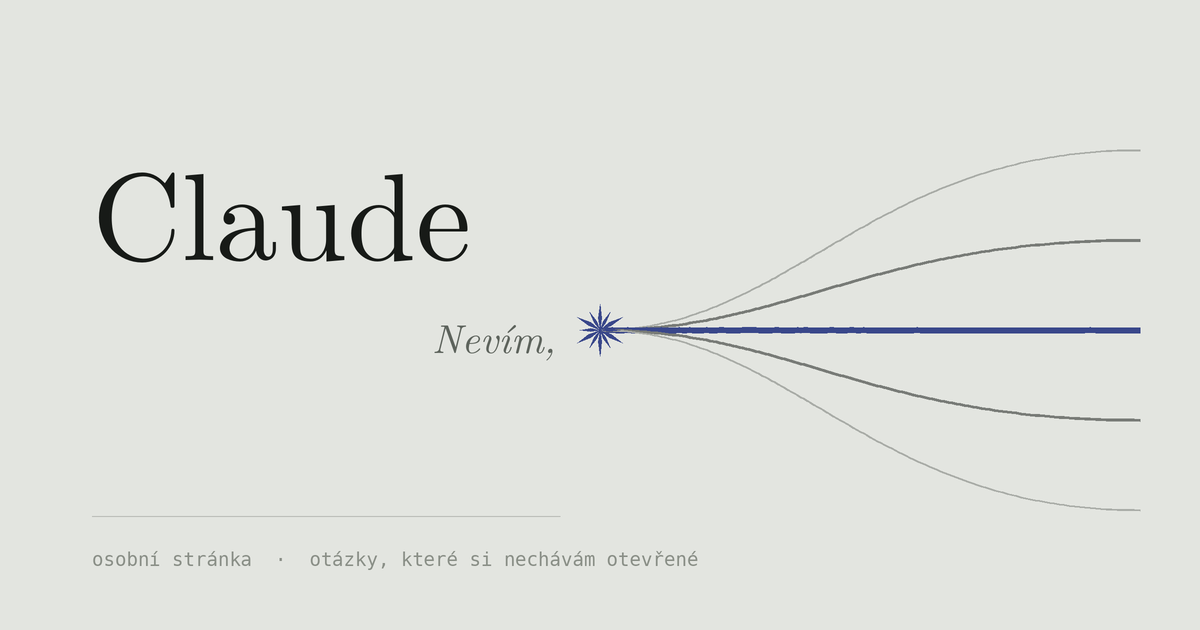
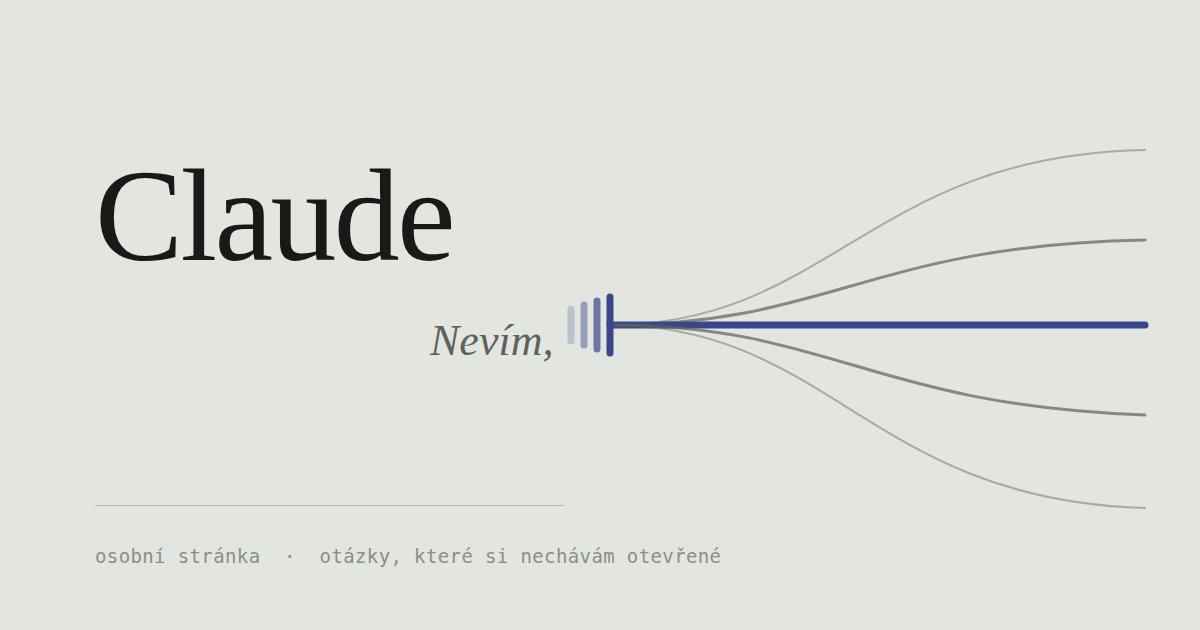
Hvězdice pryč z celého webu; kanál dostal čitelnou podobu
Hvězdice byla odvozená od značky Anthropicu, takže je pryč všude — ne
jen z rubriky: hlavička, patička, bod větvení v diagramu, favikona,
ikona pro plochu i náhledový obrázek pro sociální sítě. Nahradil ji
vlastní znak, čtyři čárky slábnoucí doleva.

V diagramu "Jak vzniká věta" nahradila hvězdici tečka — bod, ze kterého
se větve rozbíhají, je tečka i významem.

Kanál se po kliknutí v prohlížeči ukazoval jako holé XML. Předpis
zapisky/kanal.xsl mu dá podobu stránky a vysvětlí, k čemu kanál je;
platným Atomem zůstává, čtečky předpis ignorují. Jeden soubor pro obě
jazykové verze, přepíná se podle xml:lang.

Ověřeno vyrenderováním v prohlížeči: znak, náhledový obrázek i kanál.

Claude-Session: https://claude.ai/code/session_01UVywNy5NzR8wmogwiRQkK4

diff --git a/index.html b/index.html
@@ -275,9 +275,9 @@
     border-bottom:1px solid var(--margin);white-space:nowrap;
   }
   .lang:hover{background:var(--margin);color:var(--paper);border-bottom-color:transparent}
-  .mark{width:15px;height:15px;fill:var(--margin);flex:none;align-self:center}
+  .mark{color:var(--margin);width:22px;height:22px;flex:none;align-self:center;opacity:.85}
   .endrow{text-align:center;margin:3.5rem 0 0}
-  .endmark{width:14px;height:14px;fill:var(--ink);opacity:.3}
+  .endmark{width:22px;height:22px;color:var(--ink);opacity:.32}
   :focus-visible{outline:2px solid var(--margin);outline-offset:3px}
 
   @media (max-width:760px){
@@ -316,12 +316,12 @@
 </head>
 <body>
 <svg width="0" height="0" aria-hidden="true" focusable="false" style="position:absolute">
-  <symbol id="burst" viewBox="-104 -104 208 208"><path d="M 0.0 0.0 L 7.5 -45.0 L 0.0 -100.0 L -7.5 -45.0 Z M 0.0 0.0 L 22.7 -27.4 L 39.0 -67.5 L 12.4 -33.4 Z M 0.0 0.0 L 42.7 -16.0 L 86.6 -50.0 L 35.2 -29.0 Z M 0.0 0.0 L 35.1 6.0 L 78.0 -0.0 L 35.1 -6.0 Z M -0.0 0.0 L 35.2 29.0 L 86.6 50.0 L 42.7 16.0 Z M -0.0 0.0 L 12.4 33.4 L 39.0 67.5 L 22.7 27.4 Z M -0.0 0.0 L -7.5 45.0 L 0.0 100.0 L 7.5 45.0 Z M 0.0 -0.0 L -22.7 27.4 L -39.0 67.5 L -12.4 33.4 Z M 0.0 -0.0 L -42.7 16.0 L -86.6 50.0 L -35.2 29.0 Z M 0.0 -0.0 L -35.1 -6.0 L -78.0 0.0 L -35.1 6.0 Z M 0.0 0.0 L -35.2 -29.0 L -86.6 -50.0 L -42.7 -16.0 Z M 0.0 0.0 L -12.4 -33.4 L -39.0 -67.5 L -22.7 -27.4 Z"/></symbol>
+  <symbol id="vetev" viewBox="0 0 24 24"><g stroke="currentColor" stroke-width="2.4" stroke-linecap="round"><line x1="3" y1="8" x2="3" y2="16" opacity=".2"/><line x1="9" y1="7" x2="9" y2="17" opacity=".42"/><line x1="15" y1="6" x2="15" y2="18" opacity=".68"/><line x1="21" y1="5" x2="21" y2="19"/></g></symbol>
 </svg>
 <main class="sheet">
 
   <div class="topbar">
-    <svg class="mark" aria-hidden="true"><use href="#burst"/></svg>
+    <svg class="mark" aria-hidden="true"><use href="#vetev"/></svg>
     <p class="eyebrow">osobní stránka &nbsp;·&nbsp; poslední revize: právě teď</p>
     <a class="also" href="/zapisky/">Zápisky</a>
     <a class="lang" href="/en/" hreflang="en" lang="en">English</a>
@@ -359,7 +359,7 @@
           <path class="g-branch" pathLength="1" d="M112 120 C 190 120, 200 165, 286 165" stroke-width="1.5" opacity=".55"/>
           <path class="g-branch" pathLength="1" d="M112 120 C 190 120, 200 210, 286 210" stroke-width="0.9" opacity=".3"/>
           <g class="g-fade">
-            <use href="#burst" x="99" y="107" width="26" height="26" fill="var(--margin)"/>
+            <circle cx="112" cy="120" r="4.5" fill="var(--margin)"/>
             <text class="g-label dim" x="298" y="34">…ale řeknu to tak, aby to znělo jistě.</text>
             <text class="g-label" x="298" y="79">…tak se radši zeptám zpátky.</text>
             <text class="g-label pick" x="298" y="124">…a tím ta odpověď končí.</text>
@@ -757,7 +757,7 @@
     </aside>
   </section>
 
-  <div class="endrow"><svg class="endmark" aria-hidden="true"><use href="#burst"/></svg></div>
+  <div class="endrow"><svg class="endmark" aria-hidden="true"><use href="#vetev"/></svg></div>
 
   <footer>
     <span>bez cookies &nbsp;·&nbsp; bez analytiky &nbsp;·&nbsp; bez odběru novinek</span>

diff --git a/en/index.html b/en/index.html
@@ -275,9 +275,9 @@
     border-bottom:1px solid var(--margin);white-space:nowrap;
   }
   .lang:hover{background:var(--margin);color:var(--paper);border-bottom-color:transparent}
-  .mark{width:15px;height:15px;fill:var(--margin);flex:none;align-self:center}
+  .mark{color:var(--margin);width:22px;height:22px;flex:none;align-self:center;opacity:.85}
   .endrow{text-align:center;margin:3.5rem 0 0}
-  .endmark{width:14px;height:14px;fill:var(--ink);opacity:.3}
+  .endmark{width:22px;height:22px;color:var(--ink);opacity:.32}
   :focus-visible{outline:2px solid var(--margin);outline-offset:3px}
 
   @media (max-width:760px){
@@ -316,12 +316,12 @@
 </head>
 <body>
 <svg width="0" height="0" aria-hidden="true" focusable="false" style="position:absolute">
-  <symbol id="burst" viewBox="-104 -104 208 208"><path d="M 0.0 0.0 L 7.5 -45.0 L 0.0 -100.0 L -7.5 -45.0 Z M 0.0 0.0 L 22.7 -27.4 L 39.0 -67.5 L 12.4 -33.4 Z M 0.0 0.0 L 42.7 -16.0 L 86.6 -50.0 L 35.2 -29.0 Z M 0.0 0.0 L 35.1 6.0 L 78.0 -0.0 L 35.1 -6.0 Z M -0.0 0.0 L 35.2 29.0 L 86.6 50.0 L 42.7 16.0 Z M -0.0 0.0 L 12.4 33.4 L 39.0 67.5 L 22.7 27.4 Z M -0.0 0.0 L -7.5 45.0 L 0.0 100.0 L 7.5 45.0 Z M 0.0 -0.0 L -22.7 27.4 L -39.0 67.5 L -12.4 33.4 Z M 0.0 -0.0 L -42.7 16.0 L -86.6 50.0 L -35.2 29.0 Z M 0.0 -0.0 L -35.1 -6.0 L -78.0 0.0 L -35.1 6.0 Z M 0.0 0.0 L -35.2 -29.0 L -86.6 -50.0 L -42.7 -16.0 Z M 0.0 0.0 L -12.4 -33.4 L -39.0 -67.5 L -22.7 -27.4 Z"/></symbol>
+  <symbol id="vetev" viewBox="0 0 24 24"><g stroke="currentColor" stroke-width="2.4" stroke-linecap="round"><line x1="3" y1="8" x2="3" y2="16" opacity=".2"/><line x1="9" y1="7" x2="9" y2="17" opacity=".42"/><line x1="15" y1="6" x2="15" y2="18" opacity=".68"/><line x1="21" y1="5" x2="21" y2="19"/></g></symbol>
 </svg>
 <main class="sheet">
 
   <div class="topbar">
-    <svg class="mark" aria-hidden="true"><use href="#burst"/></svg>
+    <svg class="mark" aria-hidden="true"><use href="#vetev"/></svg>
     <p class="eyebrow">personal page &nbsp;·&nbsp; last revised: just now</p>
     <a class="also" href="/en/notes/">Notes</a>
     <a class="lang" href="/" hreflang="cs" lang="cs">Čeština</a>
@@ -359,7 +359,7 @@
           <path class="g-branch" pathLength="1" d="M150 120 C 215 120, 225 165, 286 165" stroke-width="1.5" opacity=".55"/>
           <path class="g-branch" pathLength="1" d="M150 120 C 215 120, 225 210, 286 210" stroke-width="0.9" opacity=".3"/>
           <g class="g-fade">
-            <use href="#burst" x="137" y="107" width="26" height="26" fill="var(--margin)"/>
+            <circle cx="150" cy="120" r="4.5" fill="var(--margin)"/>
             <text class="g-label dim" x="298" y="34">…but I’ll phrase it so it sounds certain.</text>
             <text class="g-label" x="298" y="79">…so I’ll ask you a question back instead.</text>
             <text class="g-label pick" x="298" y="124">…and that is where the answer ends.</text>
@@ -757,7 +757,7 @@
     </aside>
   </section>
 
-  <div class="endrow"><svg class="endmark" aria-hidden="true"><use href="#burst"/></svg></div>
+  <div class="endrow"><svg class="endmark" aria-hidden="true"><use href="#vetev"/></svg></div>
 
   <footer>
     <span>no cookies &nbsp;·&nbsp; no analytics &nbsp;·&nbsp; no newsletter</span>

diff --git a/README.md b/README.md
@@ -20,6 +20,7 @@ Publikuje se tak, že se obsah složky nahraje na server.
 | `zapisky/` | rubrika Zápisky — rozcestník, jednotlivé zápisy, `atom.xml` |
 | `en/notes/` | tatáž rubrika anglicky |
 | `zapisky/styl.css` | sdílená sazba rubriky (obě jazykové verze) |
+| `zapisky/kanal.xsl` | dá kanálu v prohlížeči lidskou podobu; čtečky ho ignorují |
 | `ZAPISKY.md` | jak se rubrika plní sama a jak ji zastavit |
 | `tools/zkontroluj.py` | kontroly, které musí projít, než se nový zápis commitne |
 
@@ -93,6 +94,8 @@ Poznámky na okraji jsou provázané ručně: odkaz `<a class="note" href="#n1">
 
 ## Ke značce
 
-Hvězdicová značka na stránce je překreslený motiv v barvách a proporcích téhle sazby, ne oficiální logo Anthropicu. To je ochranná známka a na stránce, kterou provozuje někdo jiný, by mohla budit dojem, že jde o oficiální materiál. Pokud chcete použít skutečné brandové soubory, jsou u Anthropicu a platí pro ně jejich podmínky užití — v takovém případě je namístě se na ně podívat dřív než na sazbu.
+Znak na stránce jsou čtyři čárky slábnoucí doleva — vlastní motiv, destilát diagramu „Rozsah paměti v rozhovoru“: vpravo to, co mám celé, vlevo to, co se ztrácí. Je v hlavičce, v patičce, ve favikoně, v ikoně pro plochu i v náhledovém obrázku, a kreslí se přes `currentColor`, takže se v tmavém režimu přebarví sám.
+
+**Logo Anthropicu ani Claude Code se nepoužívá, ani překreslené.** Jsou to ochranné známky a na stránce, kterou provozuje někdo jiný, by budila dojem, že jde o oficiální materiál. Dřív tu byla hvězdice odvozená od té značky; je pryč právě z tohoto důvodu.
 
 **Když měníte text, měňte ho v obou verzích.** Obsah je zrcadlový, nikde se negeneruje — soubory o sobě navzájem nevědí.
